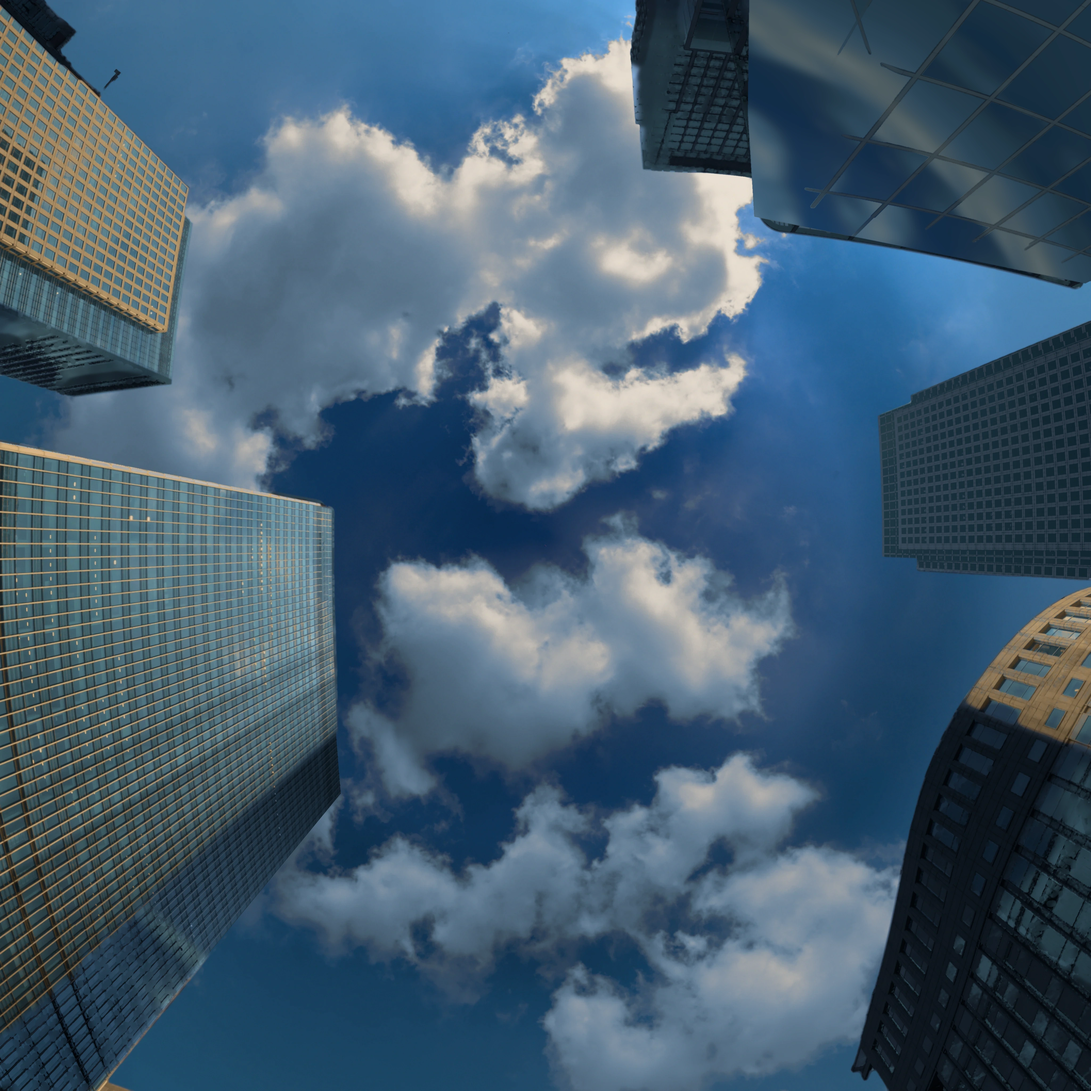
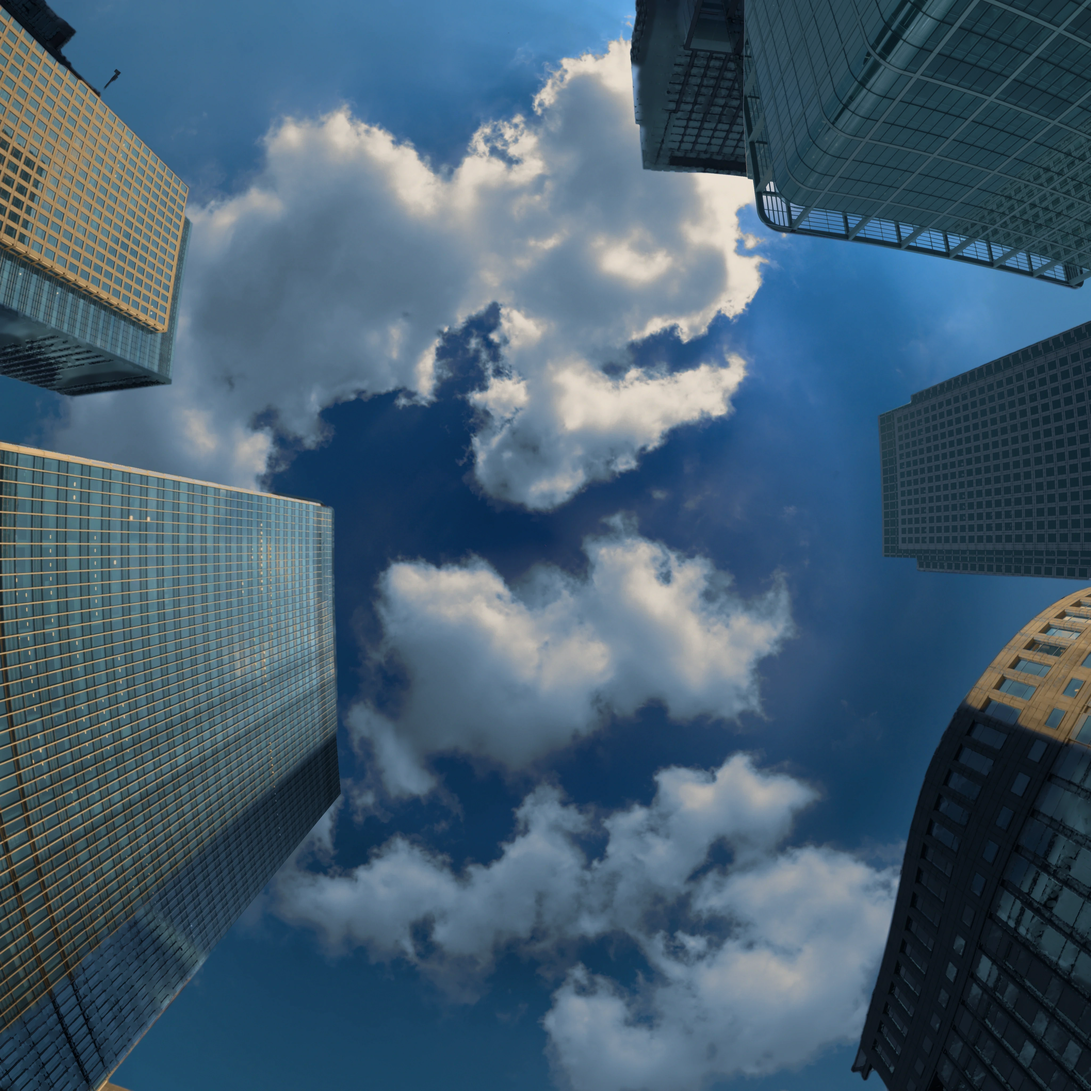
Lab: climb focal-length round 1
Claude-Session: https://claude.ai/code/session_01RqENhngNCzDFmJWDZueXGV

Changed region(s): [[0.6562, 0.0, 1.0, 0.2812], [0.9375, 0.0312, 0.9688, 0.0625]]

diff --git a/src/app/lab/focal-length/focalLengthEngine.js b/src/app/lab/focal-length/focalLengthEngine.js
@@ -29,10 +29,11 @@ import { createFilm } from "../_kit/film";
 // 24 mm the frame is still mostly cumulus, the towers only at the corners.
 //
 // The capture is turned 32 degrees about the zenith (ROLL), so the curved
-// glass tower's crown and canopy, the one face the capture could not hold
-// together, sits on the frame's short axis and mostly past its top edge,
-// and the dark grid tower and a sunlit stepped stone tower take the top
-// corners.
+// glass tower's rounded crown sits on the frame's short axis with only its
+// railed corner in the frame, and the dark grid tower and a sunlit stepped
+// stone tower take the top corners. That crown is the capture's own curtain
+// wall, only developed (canopy_photo.py), so its mullions, its railing and
+// what its glass reflects are the photograph's.
 // An upright frame turns another quarter, so the same tower stays on its
 // short axis.
 //

diff --git a/tools/depth/bakes/focal-length/canopy_photo.py b/tools/depth/bakes/focal-length/canopy_photo.py
@@ -1,0 +1,205 @@
+# The plate pass after topleft_tower.py: the curved glass tower whose crown
+# and rounded corner hang over the top centre of the 10 to 14 mm frames
+# (tower B in glass_faces.py, rebuilt again by canopy_glass.py), put back
+# to the photograph.
+#
+# canopy_glass.py had drawn it as a model: a smooth body light, fins found
+# as ridges and laid on top, and one Fresnel mirror of the sky that read as a
+# big soft arc across the face, with a clean, rubbery arris. It was the most
+# CG-looking object in the frame, in its most prominent spot. Yet the native
+# 16K capture holds this face together well: a curtain wall with its own
+# mullion and transom grid bending round the rounded corner, the railing
+# band along its foot, and in its glass a coherent reflection of the grid
+# tower across the street and the sky above it. What had gone wrong earlier
+# was the regrade (the per-pane mirror pass smeared it into blotches), not
+# the capture.
+#
+# So here the face is the capture itself, sampled straight into each
+# plate's geometry (area-averaged, ss x ss taps a pixel), and only developed:
+#
+#   light    log light split into a large-scale body (a normalised blur over
+#            Bsig degrees inside the tower) and its detail. The body is
+#            compressed (gB) round its median and set to the shade level of
+#            the other towers (level, linear plate light); the detail, which
+#            is the pane grid, the mullions and what the glass reflects, is
+#            kept nearly whole (gD), so every edge is the photograph's.
+#   colour   the cobalt-teal of the rebuilt faces, measured on the curved
+#            stone tower's shaded flank as canopy_glass.py did, carrying the
+#            capture's own chroma relative to its median (cs), so aluminium
+#            stays greyer than glass. The brightest reflections (the sky in
+#            the glass near the crown) ease toward the plate's own sky colour
+#            in the face's mirror direction, so the glass reflects this sky,
+#            not the capture's overcast.
+#   edge     coverage is unmixed from the capture's own luminance between
+#            tower and sky (lo..hi), so the arris and the railing are the
+#            photograph's edges; what shows through is the plate's sky,
+#            push-pull filled from the clear sky round the tower.
+#
+# Only the inside of glass_faces.py's hand polygon for B is touched (grown a
+# little so the capture's own edge replaces the old choke). Statistics come
+# from the outer plate and are reused for the inset so the two agree where
+# the engine blends them.
+#
+# python3 -I canopy_photo.py outer_in.webp inner_in.webp canary_wharf_16k.hdr \
+#     outer_out.webp inner_out.webp ['{params}'] [debug_prefix]
+# Run it on topleft_tower.py's outer.webp and the published inner.webp.
+import sys, json, numpy as np, cv2
+from PIL import Image
+
+LUMA = np.array([0.2126, 0.7152, 0.0722], np.float32)
+P = dict(q=93, TM=95.0, RI=0.5, ssO=3, ssI=2, grow=6,
+         poly=[[2432, 628], [2546, 580], [2822, 628], [3086, 688], [3338, 844], [3518, 988], [3674, 1204],
+               [3734, 1384], [3362, 1408], [3062, 1558], [2438, 1432], [2426, 1240]],
+         flankAz=(-47.0, -40.0), flankR=(0.45, 0.85), teal=0.6, tealC=(0.30, 1.12, 1.30),
+         lo=1.0, hi=1.9, thr=1.6, Bsig=3.0, gB=0.45, gD=1.0, level=0.034, cs=0.7,
+         skyLift=0.35, sk0=0.6, sk1=1.4, skyGain=0.85, specL=4, spec=0.25, holeA=40)
+args = sys.argv[1:]
+DBG = ''
+if len(args) > 5 and args[5].startswith('{'):
+    P.update(json.loads(args[5])); DBG = args[6] if len(args) > 6 else ''
+elif len(args) > 5:
+    DBG = args[5]
+
+s2l = lambda v: np.where(v <= 0.04045, v / 12.92, ((v + 0.055) / 1.055) ** 2.4).astype(np.float32)
+def l2s(v):
+    v = np.clip(v, 0, 1)
+    return np.where(v <= 0.0031308, v * 12.92, 1.055 * np.power(v, 1 / 2.4) - 0.055)
+def seg(L, ang):
+    k = np.zeros((2 * L + 1, 2 * L + 1), np.uint8)
+    c, s_ = np.cos(np.radians(ang)), np.sin(np.radians(ang))
+    cv2.line(k, (int(round(L - L * c)), int(round(L - L * s_))), (int(round(L + L * c)), int(round(L + L * s_))), 1, 1)
+    return k
+def smooth(a, b, x):
+    t = np.clip((x - a) / (b - a), 0, 1); return t * t * (3 - 2 * t)
+
+# ---- the native capture, cropped to az 55..205, theta 0..93
+hdr = cv2.imread(args[2], cv2.IMREAD_UNCHANGED)
+HH, WW = hdr.shape[:2]
+U0, U1 = int(55 / 360 * WW), int(205 / 360 * WW)
+CAP = np.ascontiguousarray(hdr[:int(93 / 180 * HH), U0:U1, ::-1]).astype(np.float32)
+del hdr
+def native(rho, azd):
+    th = rho * P['TM']
+    mu = ((azd % 360) / 360 * WW - 0.5 - U0).astype(np.float32)
+    mv = (th / 180 * HH - 0.5).astype(np.float32)
+    return cv2.remap(CAP, mu, mv, cv2.INTER_LINEAR, borderMode=cv2.BORDER_REPLICATE)
+
+O8 = np.asarray(Image.open(args[0]).convert('RGBA')).copy()
+I8 = np.asarray(Image.open(args[1]).convert('RGB')).copy()
+Olin = s2l(O8[..., :3].astype(np.float32) / 255); Ilin = s2l(I8.astype(np.float32) / 255)
+N = O8.shape[0]
+
+def grid(NN, sc, x0, y0, x1, y1, ox=0.5, oy=0.5):
+    gx = (np.arange(x0, x1) + ox) / NN * 2 - 1; gy = (np.arange(y0, y1) + oy) / NN * 2 - 1
+    a = gx[None, :] * sc + 0 * gy[:, None]; b = gy[:, None] * sc + 0 * gx[None, :]
+    return np.hypot(a, b), np.degrees(np.arctan2(a, b))
+
+# ---- the shared cobalt-teal (canopy_glass.py's)
+M = 1024
+rhoM, azM = grid(M, 1.0, 0, 0, M, M)
+Osm = cv2.resize(Olin, (M, M), interpolation=cv2.INTER_AREA)
+fl = (azM > P['flankAz'][0]) & (azM < P['flankAz'][1]) & (rhoM > P['flankR'][0]) & (rhoM < P['flankR'][1])
+pf = Osm[fl]
+glassC = np.median(pf / (pf @ LUMA + 1e-6)[:, None], 0).astype(np.float32)
+glassC /= float(glassC @ LUMA)
+gC = glassC * (1 - P['teal']) + np.array(P['tealC'], np.float32) * P['teal']; gC = gC / float(gC @ LUMA)
+print('glass colour', gC)
+
+def pushpull(img, w):
+    if min(img.shape[:2]) < 8:
+        m = (img * w[..., None]).sum((0, 1)) / max(w.sum(), 1e-6)
+        return np.broadcast_to(m, img.shape).astype(np.float32)
+    h, wd = img.shape[:2]
+    num = cv2.pyrDown(img * w[..., None]); den = cv2.pyrDown(w)
+    sub = num / np.maximum(den, 1e-6)[..., None]
+    c = pushpull(sub, np.minimum(den * 4, 1))
+    up = cv2.pyrUp(c, dstsize=(wd, h))
+    return img * w[..., None] + up * (1 - w[..., None])
+
+def blurN(img, w, sig):
+    num = cv2.GaussianBlur(img * w, (0, 0), sig); den = cv2.GaussianBlur(w, (0, 0), sig)
+    return num / np.maximum(den, 1e-6)
+
+STATS = {}
+def rebuild(lin, NN, sc, ss, name):
+    sx = (NN / N) / sc  # this plate's px per outer-plate px
+    pts = (np.array(P['poly'], np.float64) - N / 2) / sc * (NN / N) + NN / 2
+    pad = int(40 * sx)
+    x0, y0 = np.maximum(np.floor(pts.min(0)).astype(int) - pad, 0)
+    x1, y1 = np.minimum(np.ceil(pts.max(0)).astype(int) + pad, NN)
+    if x1 <= x0 + 8 or y1 <= y0 + 8: return lin, None
+    pm = np.zeros((y1 - y0, x1 - x0), np.uint8)
+    cv2.fillPoly(pm, [np.round(pts - [x0, y0]).astype(np.int32)], 1)
+    g = max(int(round(P['grow'] * sx)), 1)
+    pmG = cv2.dilate(pm, cv2.getStructuringElement(cv2.MORPH_ELLIPSE, (2 * g + 1, 2 * g + 1)))
+    acc = 0
+    for oy in range(ss):
+        for ox in range(ss):
+            rho, azd = grid(NN, sc, x0, y0, x1, y1, (ox + 0.5) / ss, (oy + 0.5) / ss)
+            acc = acc + native(rho, azd)
+    S = acc / (ss * ss)
+    rho, azd = grid(NN, sc, x0, y0, x1, y1)
+    pxdeg = NN / 2 / sc / P['TM']
+    Ys = np.maximum(S @ LUMA, 1e-5)
+    old = lin[y0:y1, x0:x1].copy()
+
+    # ---- coverage, unmixed from the capture's luminance between tower and sky
+    lY = np.log(Ys)
+    a = 1 - smooth(np.log(P['lo']), np.log(P['hi']), lY)
+    # tiny 'sky' islands inside the tower are lit fittings behind the glass,
+    # not openings: they stay tower (the railing's gaps are far larger)
+    nl, lab, stats, _ = cv2.connectedComponentsWithStats((a < 0.5).astype(np.uint8), connectivity=8)
+    tiny = stats[:, cv2.CC_STAT_AREA] < P['holeA'] * sx * sx
+    tiny[0] = False
+    a = np.where(tiny[lab], 1.0, a)
+    a = a * pmG
+    # ---- the plate's sky round the tower, push-pull filled in under it
+    skyW = ((Ys > P['thr']) & (pmG == 0)).astype(np.uint8)
+    skyW = cv2.erode(skyW, np.ones((3, 3), np.uint8)).astype(np.float32)
+    SKY = pushpull(old, skyW)
+    SKY = cv2.GaussianBlur(SKY, (0, 0), 1.5 * sx)
+
+    # ---- light: body compressed, detail kept
+    tw = (a > 0.5).astype(np.float32) * pmG
+    B = blurN(lY, tw, P['Bsig'] * pxdeg)
+    D = lY - B
+    # isolated bright specks (lit fittings behind the glass) go; anything that
+    # runs on in a line for specL px (mullions, transoms, railing) stays
+    L_ = max(int(round(P['specL'] * sx)), 2)
+    lin_ = np.max([cv2.morphologyEx(D.astype(np.float32), cv2.MORPH_OPEN, seg(L_, t)) for t in range(0, 180, 15)], 0)
+    D = np.minimum(D, lin_ + P['spec'])
+    if 'm' not in STATS:
+        STATS['m'] = float(np.median(B[tw > 0]))
+        c = S[tw > 0] / Ys[tw > 0][:, None]
+        STATS['c'] = np.median(c, 0).astype(np.float32)
+        STATS['d'] = float(np.percentile(D[tw > 0], 90))
+        print(name, 'body median', STATS['m'], 'chroma median', STATS['c'], 'detail p90', STATS['d'])
+    lo_ = np.log(P['level']) + P['gB'] * (B - STATS['m']) + P['gD'] * D
+    Y = np.exp(lo_)
+    # ---- colour: cobalt-teal carrying the capture's relative chroma
+    cr = np.clip(S / Ys[..., None] / STATS['c'], 0.2, 5) ** P['cs']
+    col = gC * cr
+    col = col / np.maximum(col @ LUMA, 1e-6)[..., None]
+    T = Y[..., None] * col
+    # the brightest reflections take this plate's sky, not the capture's overcast
+    sk = smooth(P['sk0'], P['sk1'], (lY - STATS['m']) - 0 * D) * P['skyLift']
+    skyHere = SKY * P['skyGain']
+    skyRef = skyHere / np.maximum(skyHere @ LUMA, 1e-6)[..., None] * Y[..., None]
+    T = T * (1 - sk[..., None]) + skyRef * sk[..., None]
+
+    new = T * a[..., None] + SKY * (1 - a[..., None])
+    wF = cv2.GaussianBlur(pmG.astype(np.float32), (0, 0), 0.7 * max(sx, 1))
+    res = old * (1 - wF[..., None]) + new * wF[..., None]
+    out = lin.copy(); out[y0:y1, x0:x1] = res
+    if DBG:
+        v = lambda z: (l2s(z) * 255).astype(np.uint8)
+        Image.fromarray(np.concatenate([v(old), v(res)], 1)).save(f'{DBG}{name}.png')
+        Image.fromarray((np.concatenate([a, tw, sk / max(P['skyLift'], 1e-6)], 1) * 255).astype(np.uint8)).save(f'{DBG}{name}_m.png')
+    return out, (x0, y0, x1, y1)
+
+Oout, bo = rebuild(Olin, N, 1.0, P['ssO'], 'outer')
+Iout, bi = rebuild(Ilin, I8.shape[0], P['RI'], P['ssI'], 'inner')
+O2 = O8.copy(); O2[..., :3] = (l2s(Oout) * 255 + 0.5).astype(np.uint8)
+Image.fromarray(O2, 'RGBA').save(args[3], 'WEBP', quality=P['q'], method=6, exact=True, alpha_quality=100)
+Image.fromarray((l2s(Iout) * 255 + 0.5).astype(np.uint8)).save(args[4], quality=P['q'], method=6)
+print('wrote', args[3], args[4], bo, bi)
